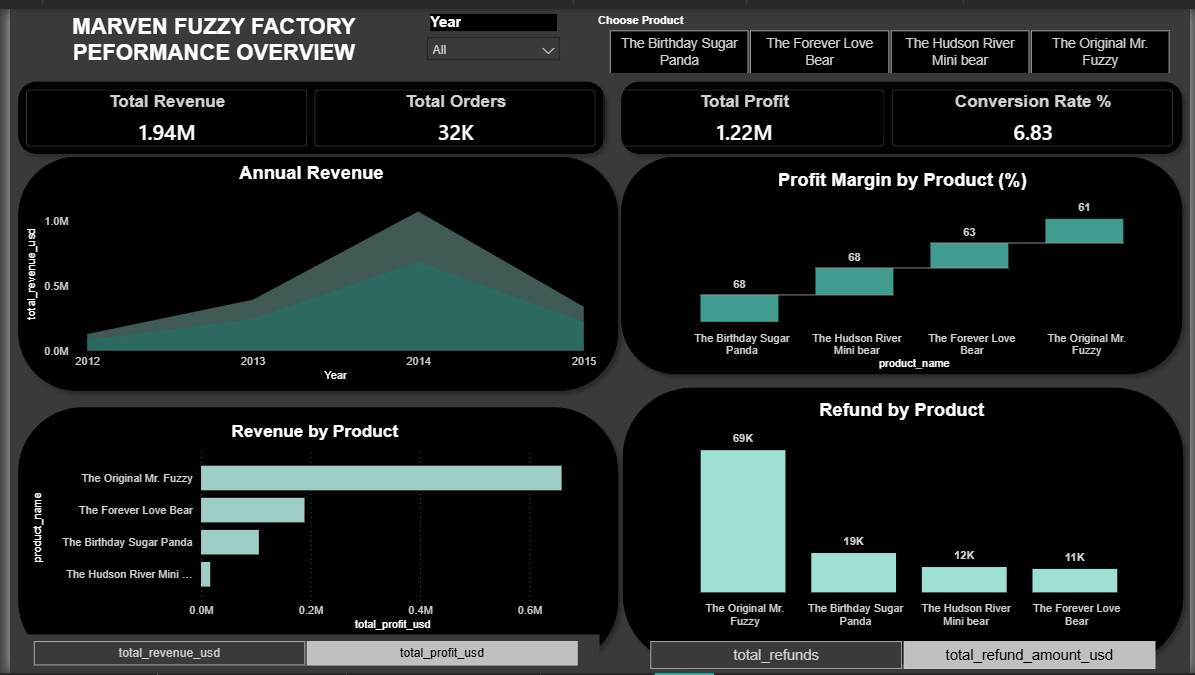
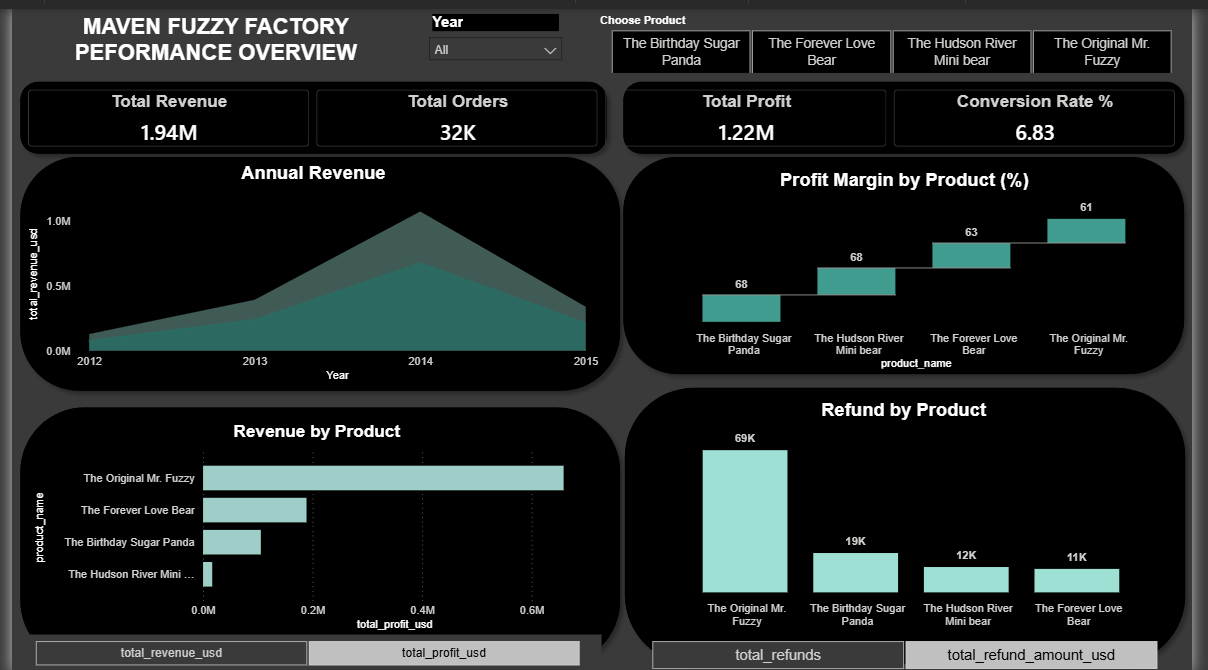
renaming folders

diff --git a/README.md b/README.md
@@ -1,14 +1,14 @@
-# 🧸 Marven Fuzzy Factory — Product & Performance Analysis
+# 🧸 Maven Fuzzy Factory — Product & Performance Analysis
 
 
 
 ## 📌 Project Overview
 
-This project analyses the Marven Fuzzy Factory e-commerce dataset to uncover the key drivers behind the company's revenue growth and decline between 2012 and 2015. The analysis was approached from a **product analyst perspective**, focusing not just on the numbers, but on *what the numbers mean* for the business.
+This project analyses the Maven Fuzzy Factory e-commerce dataset to uncover the key drivers behind the company's revenue growth and decline between 2012 and 2015. The analysis was approached from a **product analyst perspective**, focusing not just on the numbers, but on *what the numbers mean* for the business.
 
 The final deliverable is a two-page interactive Power BI dashboard designed for executive and board-level stakeholders.
 
-📥 **[Download Power BI Dashboard File](Mavern_Ecommerce_Dashboard.pbix)**
+📥 **[Download Power BI Dashboard File](Maven_Ecommerce_Dashboard.pbix)**
 
 
 
@@ -51,7 +51,7 @@ The final deliverable is a two-page interactive Power BI dashboard designed for 
 
 ## 🗂️ Dataset and Schema
 
-The dataset is sourced from the **Maven Analytics** learning platform. It represents a fictional e-commerce toy brand `Marvyn Fuzzy Factory` and contains transactional, product and web session data.
+The dataset is sourced from the **Maven Analytics** learning platform. It represents a fictional e-commerce toy brand `Maven Fuzzy Factory` and contains transactional, product and web session data.
 
 ### Tables
 
@@ -81,7 +81,7 @@ website_sessions ──► orders ──► order_items ──► order_item_ref
 ### 1. Annual Financial Performance
 
 ```sql
--- To analyse the annual financial performance of Marven Fuzzy Factory across all available years
+-- To analyse the annual financial performance of Maven Fuzzy Factory across all available years
 -- To track the growth and decline of revenue, costs and profit over time
 -- To calculate profit margin percentage and assess pricing and cost efficiency year on year
 
@@ -103,7 +103,7 @@ ORDER BY year;
 ### 2. Product Performance
 
 ```sql
--- To evaluate the performance of each individual product within the Marven's catalogue
+-- To evaluate the performance of each individual product within the Maven's catalogue
 -- To compare revenue, cost and profit across all products and identify the strongest and weakest performers
 -- To calculate profit margin percentage per product and assess which products are most efficient and profitable
 
@@ -148,7 +148,7 @@ ORDER BY refund_year, total_refunds DESC;
 ### 4. Traffic Source Conversion Rate
 
 ```sql
--- To identify which traffic sources and marketing campaigns are driving the most sessions and orders to the Marven Fuzzy Factory website
+-- To identify which traffic sources and marketing campaigns are driving the most sessions and orders to the Maven Fuzzy Factory website
 -- To measure the conversion rate of each campaign and determine which channels are most effective at turning visitors into buyers
 -- To highlight underperforming campaigns with low conversion rates that may require review or reallocation of marketing budget
 
@@ -211,7 +211,7 @@ ORDER BY month, total_sessions DESC;
 ### 7. Website Page Views
 
 ```sql
--- To identify the most visited pages on the Marven Fuzz Factory website
+-- To identify the most visited pages on the Maven Fuzzy Factory website
 -- and understand customer navigation behaviour and drop off points
 
 
@@ -231,7 +231,7 @@ ORDER BY
 ### 8. Customer Purchase Journey Funnel
 
 ```sql
--- To map the complete customer purchase journey across all stages of the Marven Fuzzy Factory website funnel
+-- To map the complete customer purchase journey across all stages of the Maven Fuzzy Factory website funnel
 -- To measure how many sessions progress through each stage from entry point to completed purchase
 -- To identify which stage experiences the highest drop off and represents the biggest opportunity for improvement
 
@@ -343,7 +343,7 @@ date_table = ADDCOLUMNS(
 
 ![Annual Revenue](images/annual_revenue%20(2).png)
 
-An analysis of Marven Fuzzy Factory's annual performance was conducted using data available from 2012 to 2015. Note that the dataset begins in 2012 and does not reflect the company's full history and all conclusions are limited to this period.
+An analysis of Maven Fuzzy Factory's annual performance was conducted using data available from 2012 to 2015. Note that the dataset begins in 2012 and does not reflect the company's full history and all conclusions are limited to this period.
 
 | Year | Total Orders | Total Revenue | Total Cost | Total Profit | Profit Margin |
 |------|-------------|---------------|------------|--------------|---------------|
@@ -380,7 +380,7 @@ Mr. Fuzzy recorded the highest refund count by a significant margin, with a gap 
 
 A concentrated spike of **213 refunds was recorded in September 2014.** Although refunds declined after that point, the damage to customer confidence had already occurred — resulting in the sharp order volume drop seen in 2015.
 
- *"As the brand's namesake product, Mr. Fuzzy carries significant reputational weight for Marven Fuzzy Factory. The September 2014 refund spike therefore not only impacted revenue but potentially damaged the core brand identity, making the recovery of Mr. Fuzzy's quality and customer satisfaction a strategic priority."*
+ *"As the brand's namesake product, Mr. Fuzzy carries significant reputational weight for Maven Fuzzy Factory. The September 2014 refund spike therefore not only impacted revenue but potentially damaged the core brand identity, making the recovery of Mr. Fuzzy's quality and customer satisfaction a strategic priority."*
 
 ---
 
@@ -450,9 +450,10 @@ Monthly sessions by traffic source, conversion by device, conversion rate by sou
 
 ## 👤 Author
 
-**[Your Name]**
+**Mercy Musonda**
 Aspiring Data / Product Analyst
+
 📧 [email redacted]
 
 
-> *This project was completed as part of my data analytics portfolio using the Maven Analytics Marvyn Fuzzy Factory dataset.*
+> *This project was completed as part of my data analytics portfolio using the Maven Analytics Maven Fuzzy Factory dataset.*